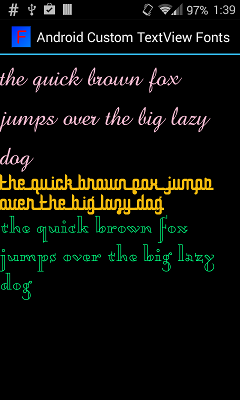
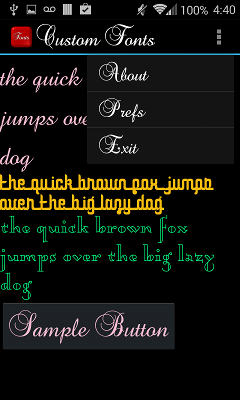
added "android.view." to class prefixes, made CustomFontFactory singleton, delayed setTypeface by one dispatch loop to accommodate for parents force styling child views after creation. Removed class App

Changed region(s): [[0.0292, 0.0, 0.9625, 0.39], [0.0, 0.75, 0.7292, 0.87], [0.875, 0.0, 0.9625, 0.06]]

diff --git a/src/custom/fonts/CustomFontFactory.java b/src/custom/fonts/CustomFontFactory.java
@@ -29,76 +29,99 @@
 
 package custom.fonts;
 
-import android.content.*;
-import android.content.res.*;
-import android.graphics.*;
-import android.text.*;
-import android.util.*;
-import android.view.*;
-import android.widget.*;
+import android.content.Context;
+import android.content.res.TypedArray;
+import android.graphics.Typeface;
+import android.os.Handler;
+import android.text.TextUtils;
+import android.util.AttributeSet;
+import android.view.LayoutInflater;
+import android.view.View;
+import android.widget.TextView;
 
-import java.util.*;
+import java.util.HashMap;
+
+import static custom.fonts.util.trace;
 
 public class CustomFontFactory implements LayoutInflater.Factory2 {
 
+    private static final String DEFAULT_TYPEFACE = "baroque_script"; // default application font
     private static final String[] extensions = {"ttf", "otf"};
-    private static final String[] classPrefixes = {"android.widget.", "android.webkit."};
+    private static final String[] classPrefixes = {"android.widget.", "android.webkit.", "android.view."};
+    private static final Handler handler = new Handler();
     private final HashMap<String, Typeface> cache = new HashMap<String, Typeface>(16);
-    private final LayoutInflater inflater;
+    private static CustomFontFactory instance;
 
-    public CustomFontFactory(Context context) {
-        inflater = (LayoutInflater)context.getSystemService(Context.LAYOUT_INFLATER_SERVICE);
-        inflater.setFactory2(this);
+    private CustomFontFactory() {
     }
 
-    public LayoutInflater getLayoutInflater() {
-        return inflater;
+    public static CustomFontFactory getInstance() {
+        if (instance == null) {
+            instance = new CustomFontFactory();
+        }
+        return instance;
     }
 
     public View setFontFamily(View view, Context context, AttributeSet attrs) {
-        if (view instanceof TextView) {
-            TextView v = (TextView)view;
-            String fontFamily = null;
+        if (context.getTheme() == null) {
+            trace("context.getTheme() == null");
+        }
+        if (view instanceof TextView && context.getTheme() != null) {
+            final TextView v = (TextView)view;
             TypedArray a = context.getTheme().obtainStyledAttributes(attrs, R.styleable.TextView, 0, 0);
-            try {
-                fontFamily = a.getString(R.styleable.TextView_fontFamily);
-                if (!v.isInEditMode() && !TextUtils.isEmpty(fontFamily)) {
-                    Typeface typeface = loadTypeface(context, fontFamily);
-                    if (typeface != null) {
-                        v.setTypeface(typeface);
+            if (a != null) {
+                try {
+                    String fontFamily = a.getString(R.styleable.TextView_fontFamily);
+                    if (fontFamily == null) {
+                        fontFamily = DEFAULT_TYPEFACE;
                     }
+                    if (!v.isInEditMode() && !TextUtils.isEmpty(fontFamily)) {
+                        final Typeface typeface = loadTypeface(context, fontFamily);
+                        if (typeface != null) {
+                            handler.post(new Runnable() {
+                                public void run() {
+                                    v.setTypeface(typeface);
+                                }
+                            });
+                        }
+                    }
+                } finally {
+                    a.recycle();
                 }
-            } finally {
-                a.recycle();
+            } else {
+                trace("obtainStyledAttributes() == null");
             }
         }
         return view;
     }
 
     public View onCreateView(View parent, String name, Context context, AttributeSet attrs) {
-        return createView(parent, name, context, attrs);
+        return createView(name, context, attrs);
     }
 
     public View onCreateView(String name, Context context, AttributeSet attrs) {
-        return createView(null, name, context, attrs);
+        return createView(name, context, attrs);
     }
 
-    private View createView(View parent, String name, Context context, AttributeSet attrs) {
-        View v = !name.contains(".") ? null : createView(inflater, name, null, attrs);
+    private View createView(String name, Context context, AttributeSet attrs) {
+        View v = !name.contains(".") ? null : create(name, null, context, attrs);
         if (v == null) {
             for (String prefix : classPrefixes) {
-                v = createView(inflater, name, prefix, attrs);
+                v = create(name, prefix, context, attrs);
                 if (v != null) {
                     break;
                 }
             }
         }
+        if (v == null) {
+            trace("failed to create " + name);
+        }
         return setFontFamily(v, context, attrs);
     }
 
-    private static View createView(LayoutInflater inflater, String name, String prefix, AttributeSet attrs) {
+    private static View create(String name, String prefix, Context context, AttributeSet attrs) {
         try {
-            return inflater.createView(name, prefix, attrs);
+            return LayoutInflater.from(context).createView(name, prefix, attrs);
         } catch (Throwable e) { // ClassNotFoundException
             return null;
         }

diff --git a/src/custom/fonts/util.java b/src/custom/fonts/util.java
@@ -29,26 +29,47 @@
 
 package custom.fonts;
 
-public class App extends android.app.Application {
+import android.util.Log;
 
-    private static App app;
-    private CustomFontFactory factory;
+public class util {
 
-    public App() {
-        app = this;
+
+    public static String getCallersCaller() {
+        StackTraceElement st = Thread.currentThread().getStackTrace()[4];
+        return forName(st.getClassName()).getSimpleName() + "." + st.getMethodName() +
+                                ":" + st.getLineNumber() + " ";
     }
 
-    public static android.view.LayoutInflater getLayoutInflater() {
-        return app.factory.getLayoutInflater();
+    public static Class<?> forName(String n) {
+        try {
+            return n == null ? null : Class.forName(n);
+        } catch (ClassNotFoundException e) {
+            return null;
+        }
     }
 
-    public static CustomFontFactory getCustomFontFactory() {
-        return app.factory;
+
+    public static void trace(String... params) {
+        if (params != null && params.length > 0) {
+            trace0(getCallersCaller(), params);
+        }
     }
 
-    public void onCreate() {
-        super.onCreate();
-        factory = new CustomFontFactory(this);
+
+    public static void trace0(String caller, String... params) {
+        if (params != null && params.length > 0) {
+            StringBuilder sb = new StringBuilder(params[0].length() * 2);
+            sb.append(caller).append(' ');
+            for (String p : params) {
+                if (p != null) {
+                    sb.append(p).append(' ');
+                }
+            }
+            String s = sb.toString().trim();
+            Log.d("custom.font", s);
+//          System.err.println(s);
+        }
     }
+
 
 }

diff --git a/src/custom/fonts/BaseActivity.java b/src/custom/fonts/BaseActivity.java
@@ -28,23 +28,31 @@
 */
 package custom.fonts;
 
-import android.app.*;
-import android.content.*;
-import android.util.*;
-import android.view.*;
+import android.app.Activity;
+import android.content.Context;
+import android.util.AttributeSet;
+import android.view.LayoutInflater;
+import android.view.View;
 
 public class BaseActivity extends Activity {
 
+    public void onCreate(android.os.Bundle savedInstanceState) {
+        super.onCreate(savedInstanceState);
+        getLayoutInflater().setFactory(CustomFontFactory.getInstance());
+    }
+
     public void setContentView(int id) {
-        super.setContentView(App.getLayoutInflater().inflate(id, null));
+        View v = LayoutInflater.from(this).inflate(id, null);
+        super.setContentView(v);
     }
 
     public View onCreateView(View parent, String name, Context context, AttributeSet attrs) {
         View v = super.onCreateView(parent, name, context, attrs);
         if (v == null) {
-            App.getCustomFontFactory().onCreateView(parent, name, context, attrs);
-        } else {
-            App.getCustomFontFactory().setFontFamily(v, context, attrs);
+            CustomFontFactory.getInstance().onCreateView(parent, name, context, attrs);
+        }
+        if (v != null) {
+            CustomFontFactory.getInstance().setFontFamily(v, context, attrs);
         }
         return v;
     }

diff --git a/src/custom/fonts/Act.java b/src/custom/fonts/Act.java
@@ -28,11 +28,34 @@
 */
 package custom.fonts;
 
+import android.app.AlertDialog;
+import android.view.*;
+
 public class Act extends BaseActivity {
 
     public void onCreate(android.os.Bundle savedInstanceState) {
         super.onCreate(savedInstanceState);
         setContentView(R.layout.main);
+        View v = findViewById(R.id.button);
+        if (v != null) {
+            v.setOnClickListener(new View.OnClickListener() {
+                public void onClick(View v) {
+                    AlertDialog.Builder builder = new AlertDialog.Builder(Act.this);
+                    builder.setTitle("Title");
+                    builder.setMessage("Alert Message");
+                    builder.setPositiveButton("OK", null);
+                    builder.create();
+                    builder.show();
+                }
+            });
+        }
+
+    }
+
+    public boolean onCreateOptionsMenu(android.view.Menu menu) {
+        MenuInflater inflater = getMenuInflater();
+        inflater.inflate(R.menu.main_menu, menu);
+        return true;
     }
 
 }

diff --git a/README.md b/README.md
@@ -8,18 +8,14 @@ If it is desired to hold only limited number of fonts "loaded"
   cache = new LruCache<String, Typeface>(MAXIMUM_NUMBER_OF_LOADED_FONTS)
 can be used instead of HashMap in CustomFontFactory.
 
-If it is desired to cache loaded fonts on Activity rather than Application context
-the App shared data member:
-    private CustomFontFactory factory;
-can be easily moved to BaseActivity but beware in such scenario multiple Activities
-using the same custom font will load it twice and will unload on garbage collection
-of activity.
-
 More sophisticated schemes of shared font cache management can be implemented but
 it is outside of the scope of this sample.
 
-This sample code is tested on Android API 11 to 17 and guaranteed not to work for
-API < 11 (Honeycomb 3.0) see: http://en.wikipedia.org/wiki/Android_version_history
+CustomFontFactory is a shared singleton that is used in BaseActivity.
+It does not have any provisions for thread safety thus it must be used on application main thread.
+
+This sample code is tested on Android API 11 (Honeycomb 3.0) to 19 and guaranteed not to work for
+API <= 10 (Gingerbread) see: http://en.wikipedia.org/wiki/Android_version_history
 
 Free fonts used in sample assets are
 http://www.fontsaddict.com/font/baroque-script.html
